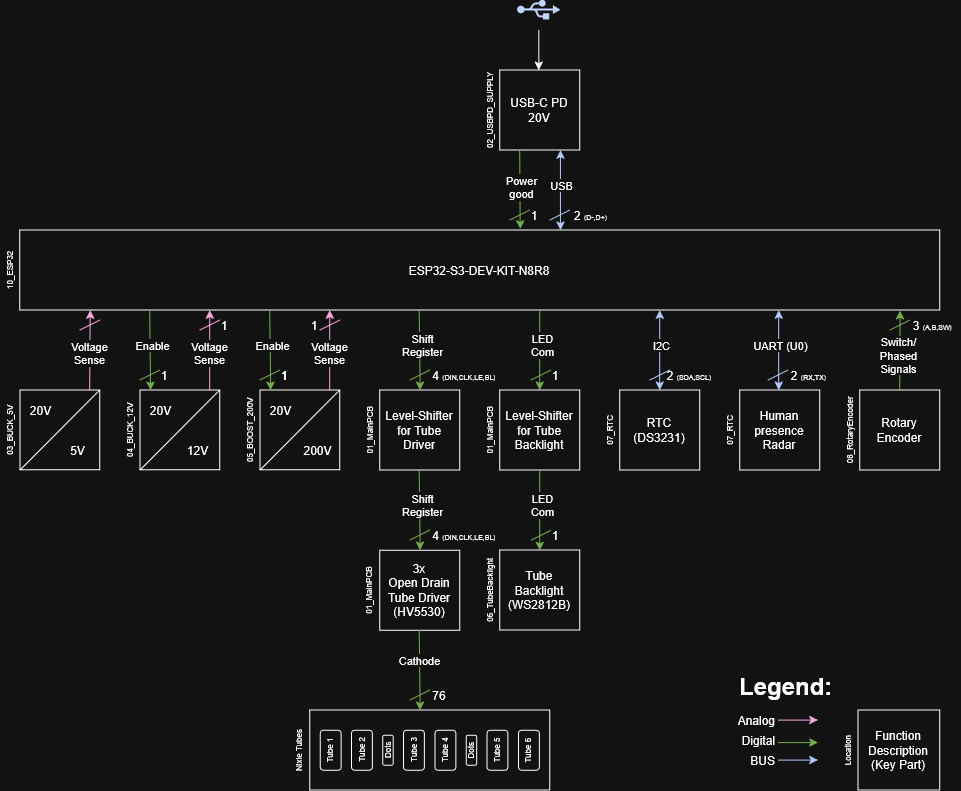
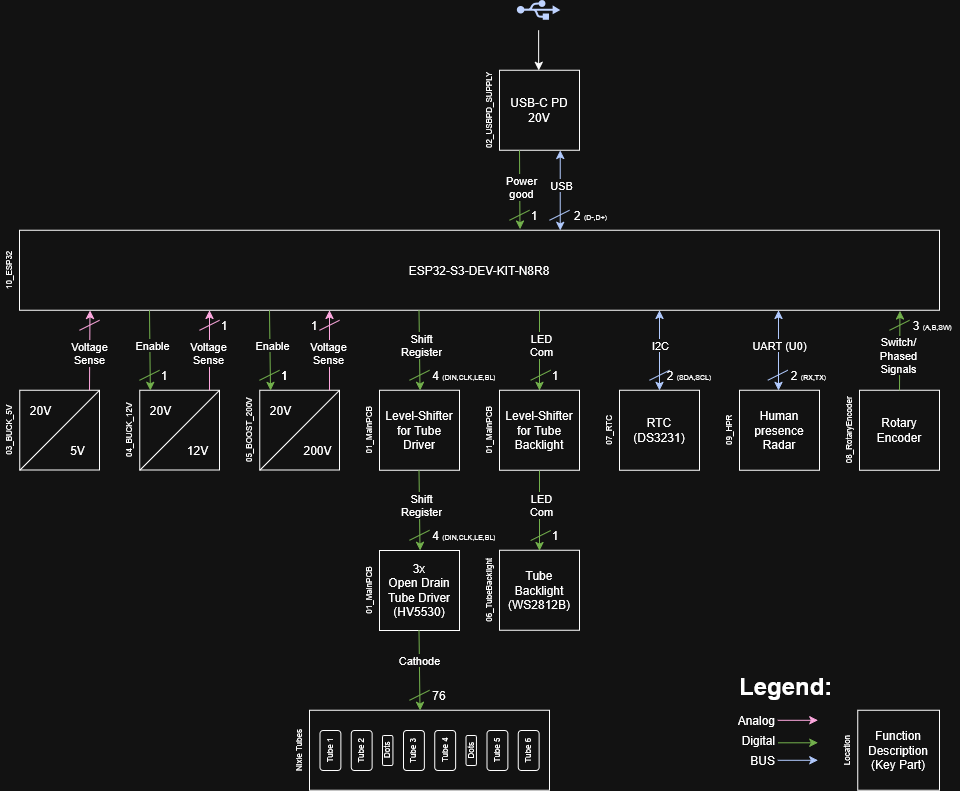
Added requirements and architecture

diff --git a/04_Docs/02_architecture.md b/04_Docs/02_architecture.md
@@ -12,25 +12,78 @@
 
 ## Signal Flow
 <p align="left">
+
   <img src="NIXIE_CLOCK-Signal_Flow.png" alt="Signal Flow" width="800">
 </p>
 
 ## Modules
   ### 01_MainPCB
-  1. 
-  2. ...
+  - **Purpose:** Tubes and driver, connection of all submodules
+  - **Key part:** IN-14 / HV5530
+  - **Interfaces:** in 20 V / out 200 V / enable / GND
+  - **Key specs:** 
+  - **Features:** LED ind. Human Presence, 
+  - **Satisfies:** FR-01, NFR-02
   ### 02_USBPD_Supply
-  1. 
-  2. ...
-  ### 03_Buck_12V
-  1. 
-  2. ...
-  ### 04_Buck_5V
-  1. 
-  2. ...
+  - **Purpose:** 20V power supply and programming interface
+  - **Key part:** STUSB4500
+  - **Interfaces:** in USB PD / out 20V / I2C / USB / GND
+  - **Key specs:** output current
+  - **Features:** LED enable, LED Power Ok
+  - **Satisfies:** NFR-01
+  ### 03_Buck_5V
+  - **Purpose:** Buck converter for 5V power supply of the ESP32-S3
+  - **Key part:** TPS5430
+  - **Interfaces:** in 20V / out 5V / enable / GND
+  - **Key specs:** output current, ripple, efficiency
+  - **Features:** LED enable, LED Power Ok , same Design as 04_Buck_12V
+  - **Satisfies:** -
+  ### 04_Buck_12V
+  - **Purpose:** Buck converter for 12V logic of tube drivers
+  - **Key part:** TPS5430 / out 5V / enable
+  - **Interfaces:** in 20V / out 12V / enable / GND
+  - **Key specs:** output current , ripple, efficiency
+  - **Features:** LED enable, LED Power Ok, same Design as 03_Buck_5V
+  - **Satisfies:** -
   ### 05_Boost_200V
-  1. 
-  2. ...
-  ### 06_RotaryEncoder
-  1. 
-  2. ...
+  - **Purpose:** 20 V -> 200 V for the tubes
+  - **Key part:** LT3757
+  - **Interfaces:** in 20 V / out 200 V / enable / GND
+  - **Key specs:** output current, ripple, efficiency
+  - **Features:** LED enable 
+  - **Satisfies:** -
+  ### 06_TubeBacklight
+  - **Purpose:** Backlight of the IN-14 Tubes
+  - **Key part:** WS2812B
+  - **Interfaces:** in 5V / LED Bus / GND
+  - **Key specs:** brightness
+  - **Features:** -
+  - **Satisfies:** FR-06
+  ### 07_RTC
+  - **Purpose:** Real Time clock 
+  - **Key part:** DS3231 
+  - **Interfaces:** in 3V3 / I2C / GND
+  - **Key specs:** time accuracy
+  - **Features:** LED power
+  - **Satisfies:** FR-03
+  ### 08_RotaryEncoder
+  - **Purpose:** Manual time settings
+  - **Key part:** EC11 / 74LVC1G14
+  - **Interfaces:** in 3V3 / A / B / SW / GND
+  - **Key specs:** maximum rotating frequency
+  - **Features:** LED power / LED A / LED B / LED SW
+  - **Satisfies:** FR-04
+  ### 09_HPR (Human Presence Radar)
+  - **Purpose:** Human presence detection
+  - **Key part:** Waveshare  GMMD-mmWave-Sensor
+  - **Interfaces:** in 3V3 / UART / GND
+  - **Key specs:** detection range, detection reliability
+  - **Features:** -
+  - **Satisfies:** FR-05
+### 10_ESP32
+  - **Purpose:** Microcontroller unit
+  - **Key part:** Waveshare ESP32-S3-DEV-KIT-N8R8
+  - **Interfaces:** in 5V / GPIO / UART / I2C / USB / WiFi / GND
+  - **Key specs:** -
+  - **Features:** RGB LED
+  - **Satisfies:** FR-02

diff --git a/04_Docs/01_requirements.md b/04_Docs/01_requirements.md
@@ -1,27 +1,22 @@
 # Requirements
 
 ## Functional
-### Timekeeping
-  - Primary: NTP sync via WiFi
-  - Fallback: DS3231 RTC (CR2032 backup battery) when WiFi/NTP unavailable
-  - Manual time set via rotary encoder when in fallback mode
-
+- FR-01 The clock shall display time as HH:MM:SS on 6 Nixie tubes.
+- FR-02 The clock shall synchronize time via NTP over WiFi.
+- FR-03 The clock shall keep time without WiFi using a battery-backed RTC.
+- FR-04 The user shall be able to set the time manually when NTP is unavailable.
+- FR-05 The clock shall [blank/dim] the tubes when no person is present.
+- FR-06 The clock shall illuminate the tumes with a backlight.
 
 ## Non-Functional
-### Modularity
-  - Each module (power stages, driver, encoder) is a separate PCB, designed individually
-  - Main PCB interconnects all modules
-### Mechanical
-  - Simple wooden housing
-### Display
-  - 6x IN-14 Nixie tubes
-  - Driven via HV5530PG-G
-### Power
-  - Input: USB-C Power Delivery, 20V
-  - 20V → 200V (boost, LT3757) for Nixie tubes
-  - 20V → 12V (buck, OTS IC) for Nixie driver
-  - 20V → 5V (buck, OTS IC) for ESP32
-## Sensing
-  - Human presence: Waveshare 24GHz FMCW mmWave radar (GPIO/UART, 3.3V)
-### Compute
-  - Waveshare ESP32-S3-DEV-KIT-N8R8
+- NFR-01 Power input: USB-C PD at 20 V.
+- NFR-02 Each function shall be a separate PCB, connected via a main PCB.
+- NFR-03 The housing shall be made of wood.
+
+## Constraints
+- C-01 Display tubes: IN-14.
+- C-02 MCU: Waveshare ESP32-S3-DEV-KIT-N8R8.
+- C-03 Tube driver: HV5530.
+- C-04 USB-C PD: STUSB4500.
+- C-05 RTC: DS3231.
+
